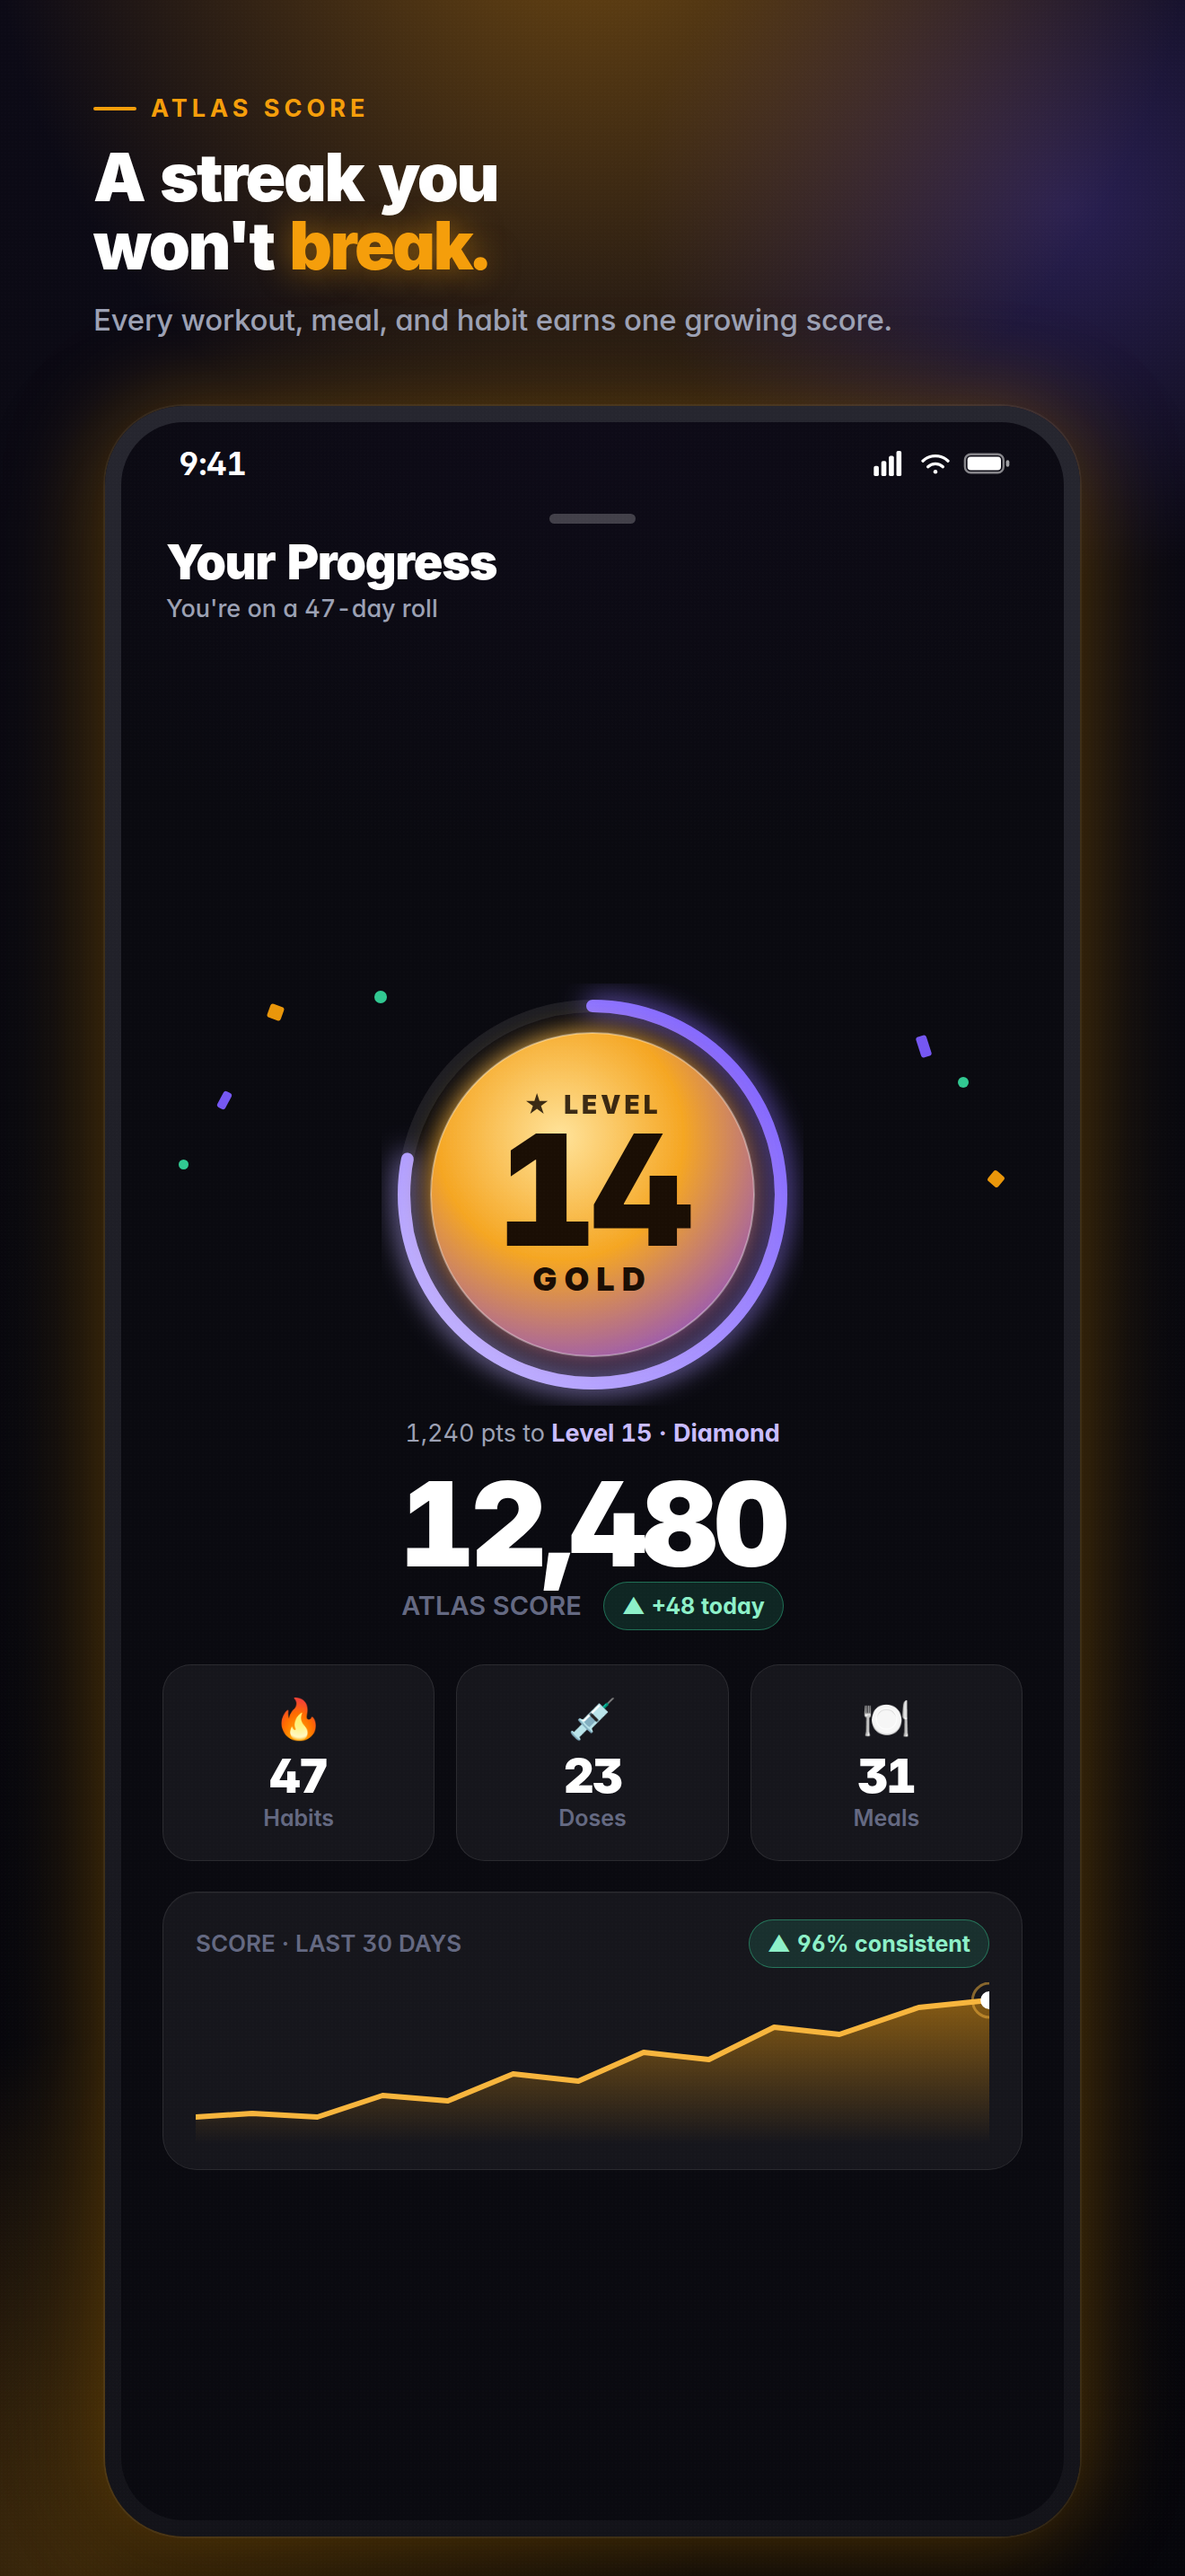
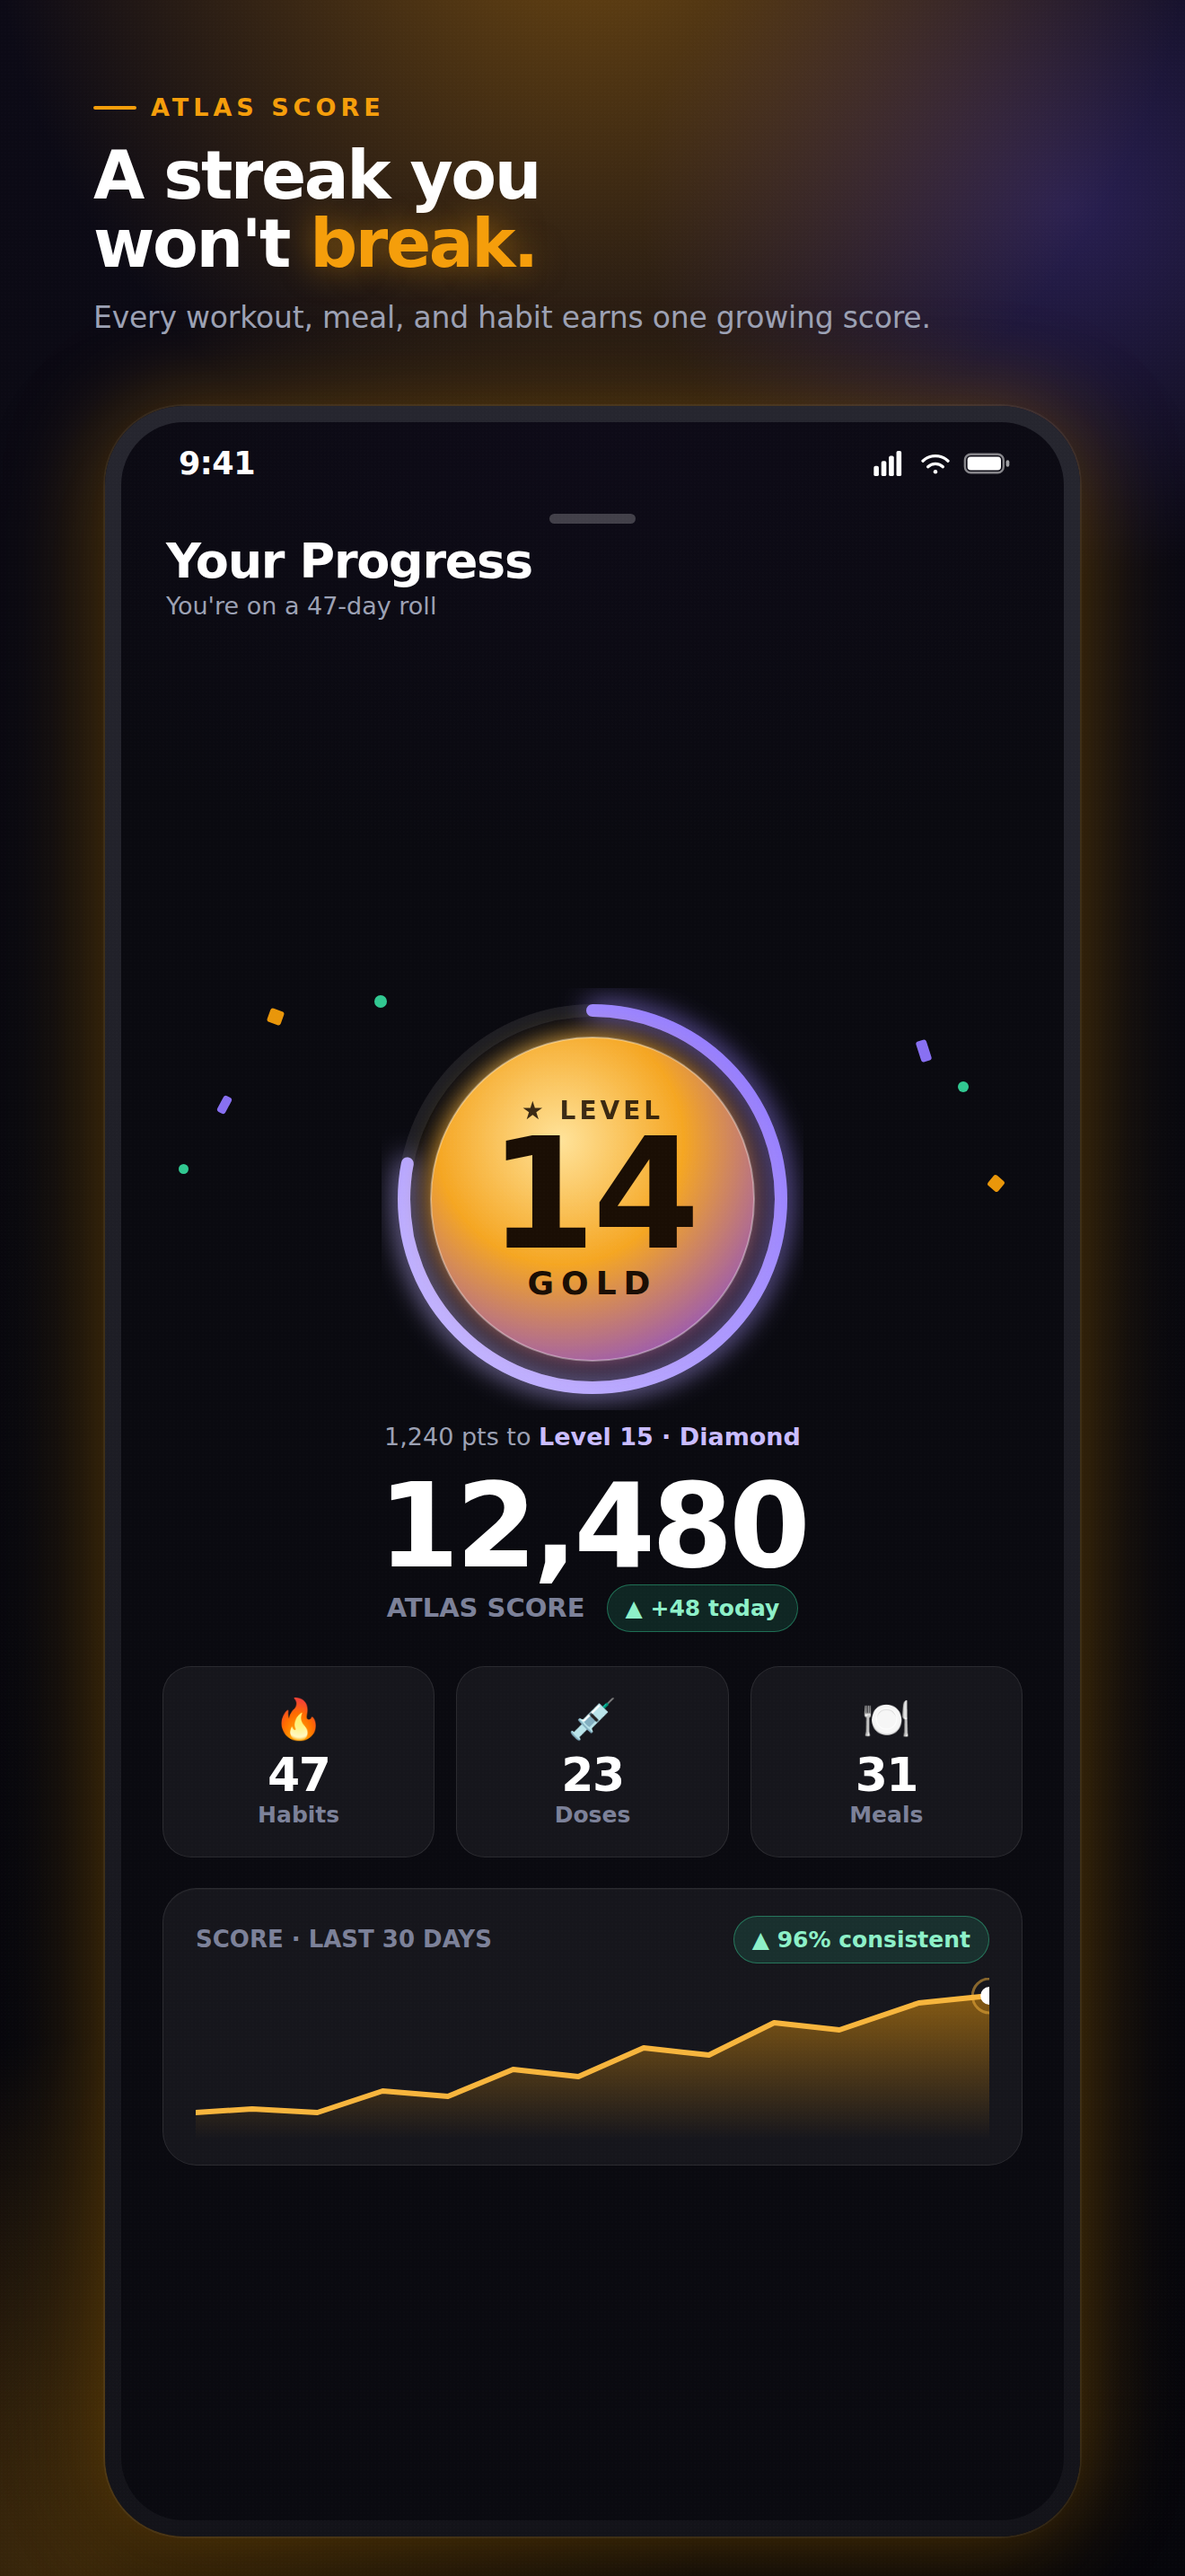
Fix contrast in the App Store screens
The marketing screens render through Playwright, and Chromium is
available — so unlike the iOS app, this surface could actually be looked
at. Measuring every text node's computed colour against its real
background found five failures against WCAG AA:

  tab labels          3.9:1
  active tab          4.5:1 (marginal)
  --faint body text   3.6:1
  medical disclaimer  2.6:1
  subscription terms  3.4:1

The last two are the copy on these screens that most needs to be legible,
and both are the kind of thing App Store review looks at. All five now
clear 4.5:1; PNGs re-rendered.

measure.mjs is committed alongside render.mjs so this is repeatable. It
complements scripts/contrast-check.py rather than duplicating it: that one
checks token pairs, which is all it can do without layout; this one
resolves what each label actually sits on.

diff --git a/marketing/app-store/assets/atlas.css b/marketing/app-store/assets/atlas.css
@@ -5,8 +5,8 @@
    ============================================================ */
 
 :root {
-  --bg-0:#0A0A10; --bg-1:#0E0B18; --ink:#FFFFFF; --muted:#9CA1B4; --faint:#646982;
-  --mint:#34D399; --violet:#7B5CFF; --amber:#F59E0B; --coral:#F87171;
+  --bg-0:#0A0A10; --bg-1:#0E0B18; --ink:#FFFFFF; --muted:#9CA1B4; --faint:#7C8199;
+  --mint:#34D399; --violet:#8F76FF; --amber:#F59E0B; --coral:#F87171;
   --blue:#60A5FA; --orange:#FB923C; --yellow:#FACC15;
   --glass:rgba(255,255,255,0.05); --glass-2:rgba(255,255,255,0.08);
   --hair:rgba(255,255,255,0.09); --hair-2:rgba(255,255,255,0.15);
@@ -71,7 +71,7 @@ body{font-family:"Inter",system-ui,-apple-system,sans-serif;background:var(--bg-
 /* ---------- tab bar (native iOS) ---------- */
 .tabbar{position:absolute;left:0;right:0;bottom:0;height:158px;display:flex;align-items:flex-start;justify-content:space-around;
   padding:22px 30px 0;background:rgba(12,12,18,0.72);backdrop-filter:blur(28px);border-top:1px solid rgba(255,255,255,0.07);}
-.tab{display:flex;flex-direction:column;align-items:center;gap:10px;color:#6A6F84;font-size:22px;font-weight:600;width:160px;}
+.tab{display:flex;flex-direction:column;align-items:center;gap:10px;color:#7F849A;font-size:22px;font-weight:600;width:160px;}
 .tab svg{display:block;}
 .tab.active{color:var(--violet);}
 .homebar{position:absolute;left:50%;bottom:16px;transform:translateX(-50%);width:300px;height:10px;border-radius:6px;background:rgba(255,255,255,0.4);}

diff --git a/marketing/app-store/screens/02-score.html b/marketing/app-store/screens/02-score.html
@@ -33,7 +33,7 @@
           <svg width="470" height="470" viewBox="0 0 470 470">
             <defs>
               <radialGradient id="medal" cx="0.4" cy="0.32" r="0.85"><stop offset="0" stop-color="#FFE39A"/><stop offset="0.45" stop-color="#F5A623"/><stop offset="1" stop-color="#7B3FE4"/></radialGradient>
-              <linearGradient id="arc" x1="0" y1="0" x2="1" y2="1"><stop offset="0" stop-color="#C9BCFF"/><stop offset="1" stop-color="#7B5CFF"/></linearGradient>
+              <linearGradient id="arc" x1="0" y1="0" x2="1" y2="1"><stop offset="0" stop-color="#C9BCFF"/><stop offset="1" stop-color="#8F76FF"/></linearGradient>
               <filter id="mglow" x="-40%" y="-40%" width="180%" height="180%"><feGaussianBlur stdDeviation="15" result="b"/><feMerge><feMergeNode in="b"/><feMergeNode in="SourceGraphic"/></feMerge></filter>
             </defs>
             <circle cx="235" cy="235" r="210" fill="none" stroke="rgba(255,255,255,0.08)" stroke-width="14"/>

diff --git a/marketing/app-store/screens/08-paywall.html b/marketing/app-store/screens/08-paywall.html
@@ -47,7 +47,7 @@
         </div>
 
         <div class="cta" style="margin-top:30px;">Start 14-Day Free Trial</div>
-        <div style="text-align:center;font-size:23px;color:#606477;margin-top:20px;line-height:1.5;">Auto-renews until cancelled. Cancel anytime in Settings.<br><span style="color:#7B5CFF;">Terms of Use</span> · <span style="color:#7B5CFF;">Privacy Policy</span> · Restore</div>
+        <div style="text-align:center;font-size:23px;color:#7C8199;margin-top:20px;line-height:1.5;">Auto-renews until cancelled. Cancel anytime in Settings.<br><span style="color:#8F76FF;">Terms of Use</span> · <span style="color:#8F76FF;">Privacy Policy</span> · Restore</div>
       </div>
     </div>
   </div>

diff --git a/marketing/app-store/screens/07-protocols.html b/marketing/app-store/screens/07-protocols.html
@@ -50,7 +50,7 @@
           <div class="row between" style="padding:22px 0;font-size:31px;"><span>May 30 · BPC-157 + TB-500</span><span style="color:var(--mint);">✓✓</span></div>
         </div>
 
-        <div style="text-align:center;font-size:24px;color:#505467;margin-top:24px;">⚠ Atlas does not prescribe, recommend, or calculate doses</div>
+        <div style="text-align:center;font-size:24px;color:#7C8199;margin-top:24px;">⚠ Atlas does not prescribe, recommend, or calculate doses</div>
       </div>
     </div>
   </div>

diff --git a/marketing/app-store/README.md b/marketing/app-store/README.md
@@ -187,3 +187,19 @@ shot list for the listing's autoplay video. It must be **real on-device capture*
       against frame 2 (Atlas Score) as the lead; that's the highest-leverage test.
 - [ ] iPad: the phone-framed layout letterboxes at iPad aspect. For an iPad set, widen
       `.device`/`.cap` in `atlas.css` (or render two-up) before generating 2064 × 2752.
+
+
+## Checking contrast
+
+`render.mjs` produces the PNGs; `measure.mjs` checks them the way a browser
+sees them — every text node's computed colour resolved against its actual
+background, held to WCAG 2.1 AA.
+
+```sh
+GROOT=$(npm root -g) node measure.mjs
+```
+
+It found five real failures the first time it was run, including the medical
+disclaimer at 2.6:1 and the subscription terms at 3.4:1 — the two pieces of
+copy on these screens that most need to be readable. Re-run it after any
+palette change and re-render before committing PNGs.
